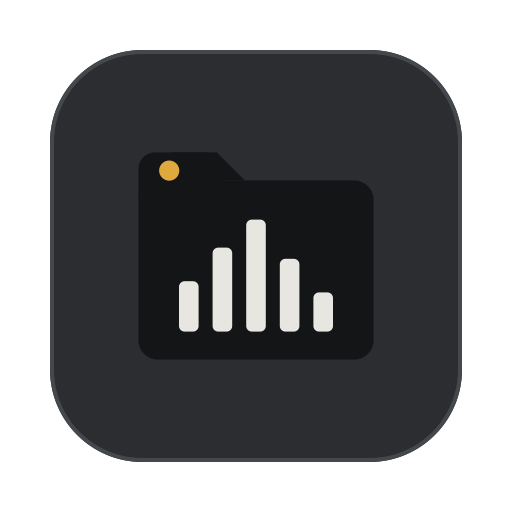
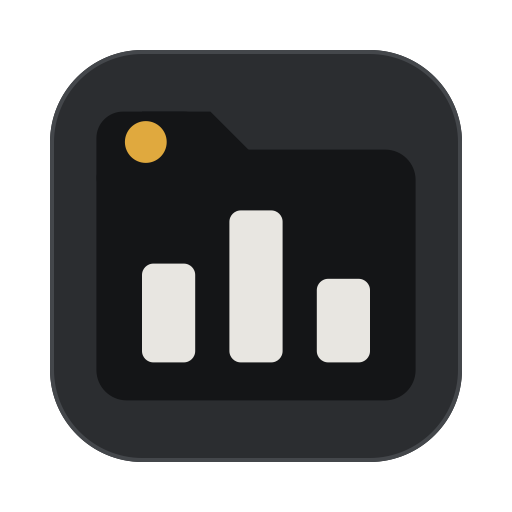
Ícone com a pasta maior
A pasta passa a ocupar 77% do corpo, como os ícones do sistema, com
três barras largas que se leem no Dock. A pasta continua a ser a parte
mais escura. Capa do Now Playing e marca regeneradas.

Changed region(s): [[0.1875, 0.2188, 0.8125, 0.7812]]

diff --git a/scripts/make-icons.swift b/scripts/make-icons.swift
@@ -24,27 +24,22 @@ enum Shape {
 /// Grelha dos ícones do macOS: corpo de 824 com raio 185, centrado em 1024.
 let body = (x: 100.0, y: 100.0, w: 824.0, h: 824.0, r: 185.0)
 
-/// Pasta com medidor de VU, em coordenadas de 0 a 100. A versão pequena tem menos barras e um LED maior.
-func folderGlyph(small: Bool) -> [Shape] {
-    if small {
-        return [
-            .rect(x: 8, y: 12, w: 30, h: 24, r: 7, fill: C.display),
-            .triangle([(20, 12), (38, 12), (50, 24), (20, 24)], fill: C.display),
-            .rect(x: 8, y: 22, w: 84, h: 66, r: 8, fill: C.display),
-            .circle(cx: 21, cy: 20, r: 5.5, fill: C.signal),
-            .rect(x: 20, y: 52, w: 14, h: 26, r: 3, fill: C.displayInk),
-            .rect(x: 43, y: 38, w: 14, h: 40, r: 3, fill: C.displayInk),
-            .rect(x: 66, y: 56, w: 14, h: 22, r: 3, fill: C.displayInk),
-        ]
-    }
-    let bars: [(x: Double, h: Double)] = [(22.5, 18), (34.5, 30), (46.5, 40), (58.5, 26), (70.5, 14)]
-    return [
-        .rect(x: 8, y: 14, w: 30, h: 22, r: 6, fill: C.display),
-        .triangle([(20, 14), (36, 14), (46, 24), (20, 24)], fill: C.display),
-        .rect(x: 8, y: 24, w: 84, h: 64, r: 7, fill: C.display),
-        .circle(cx: 19, cy: 20.5, r: 3.6, fill: C.signal),
-    ] + bars.map { .rect(x: $0.x, y: 78 - $0.h, w: 7, h: $0.h, r: 2, fill: C.displayInk) }
+/// Pasta com medidor de VU, em coordenadas de 0 a 100: a pasta é sempre a parte mais escura
+/// (`display`), com três barras largas claras e o LED âmbar. As barras largas leem-se no Dock.
+func folderGlyph() -> [Shape] {
+    [
+        .rect(x: 8, y: 12, w: 30, h: 24, r: 7, fill: C.display),
+        .triangle([(20, 12), (38, 12), (50, 24), (20, 24)], fill: C.display),
+        .rect(x: 8, y: 22, w: 84, h: 66, r: 8, fill: C.display),
+        .circle(cx: 21, cy: 20, r: 5.5, fill: C.signal),
+        .rect(x: 20, y: 52, w: 14, h: 26, r: 3, fill: C.displayInk),
+        .rect(x: 43, y: 38, w: 14, h: 40, r: 3, fill: C.displayInk),
+        .rect(x: 66, y: 56, w: 14, h: 22, r: 3, fill: C.displayInk),
+    ]
 }
+
+/// Escala da pasta no corpo do ícone: ocupa 77% da largura, como os ícones do sistema.
+let glyphScale = 7.6
 
 /// Escala e desloca formas de 0–100 para o ícone.
 func place(_ shapes: [Shape], x: Double, y: Double, k: Double) -> [Shape] {
@@ -65,9 +60,8 @@ func shapes(small: Bool) -> [Shape] {
     var s: [Shape] = [.rect(x: body.x, y: body.y, w: body.w, h: body.h, r: body.r, fill: C.surface1, stroke: C.line, sw: 8)]
     switch variant {
     case "folder":
-        // Pasta com VU, centrada no corpo. Em 16 e 32 px, a versão simplificada e maior.
-        s += small ? place(folderGlyph(small: true), x: 192, y: 192, k: 6.4)
-                   : place(folderGlyph(small: false), x: 232, y: 226.4, k: 5.6)
+        // Pasta escura com VU, grande e centrada no corpo.
+        s += place(folderGlyph(), x: 512 - 50 * glyphScale, y: 512 - 50 * glyphScale, k: glyphScale)
     case "display":
         // Só o display, grande, com LED e barra.
         s += [
@@ -213,8 +207,8 @@ func logoSVG(ink: String) -> String {
     CTFontGetGlyphsForCharacters(font, text, &glyphs, text.count)
     var advances = [CGSize](repeating: .zero, count: glyphs.count)
     CTFontGetAdvancesForGlyphs(font, .horizontal, glyphs, &advances, glyphs.count)
-    // Texto centrado na altura da pasta (14 a 88), afastado 32 da borda direita.
-    let baseline = 51 + CTFontGetCapHeight(font) / 2
+    // Texto centrado na altura da pasta (12 a 88), afastado 32 da borda direita.
+    let baseline = 50 + CTFontGetCapHeight(font) / 2
     var x = 124.0
     var d = ""
     for (g, adv) in zip(glyphs, advances) {
@@ -237,7 +231,7 @@ func logoSVG(ink: String) -> String {
     }
     let w = Int(ceil(x)) - 8 + 4
     return "<svg xmlns=\"http://www.w3.org/2000/svg\" viewBox=\"8 12 \(w) 78\">\n"
-        + svgElements(folderGlyph(small: false), small: false)
+        + svgElements(folderGlyph(), small: false)
         + "  <path d=\"\(d)\" fill=\"\(ink)\"/>\n</svg>\n"
 }
 
@@ -286,7 +280,7 @@ if args.contains("--all") {
     let artSet = out.appendingPathComponent("NowPlayingArtwork.imageset")
     try? FileManager.default.createDirectory(at: artSet, withIntermediateDirectories: true)
     let art = [Shape.rect(x: 0, y: 0, w: 1024, h: 1024, r: 0, fill: C.surface1)]
-        + place(folderGlyph(small: false), x: 192, y: 185.6, k: 6.4)
+        + place(folderGlyph(), x: 512 - 50 * glyphScale, y: 512 - 50 * glyphScale, k: glyphScale)
     png(1024, name: "NowPlayingArtwork.imageset/artwork.png", shadow: false, art: art)
     let artContents: [String: Any] = ["images": [["idiom": "universal", "filename": "artwork.png"]],
                                       "info": ["author": "xcode", "version": 1]]
@@ -295,7 +289,7 @@ if args.contains("--all") {
     // Ícone da barra de menus: modelo (template) preto, 18 pt, com as barras e o LED vazados.
     let barSet = out.appendingPathComponent("MenuBarIcon.imageset")
     try? FileManager.default.createDirectory(at: barSet, withIntermediateDirectories: true)
-    let template: [Shape] = folderGlyph(small: true).map {
+    let template: [Shape] = folderGlyph().map {
         switch $0 {
         case let .rect(x, y, w, h, r, fill, _, _):
             return .rect(x: x, y: y, w: w, h: h, r: r, fill: fill == C.display ? "#000000" : "clear")
